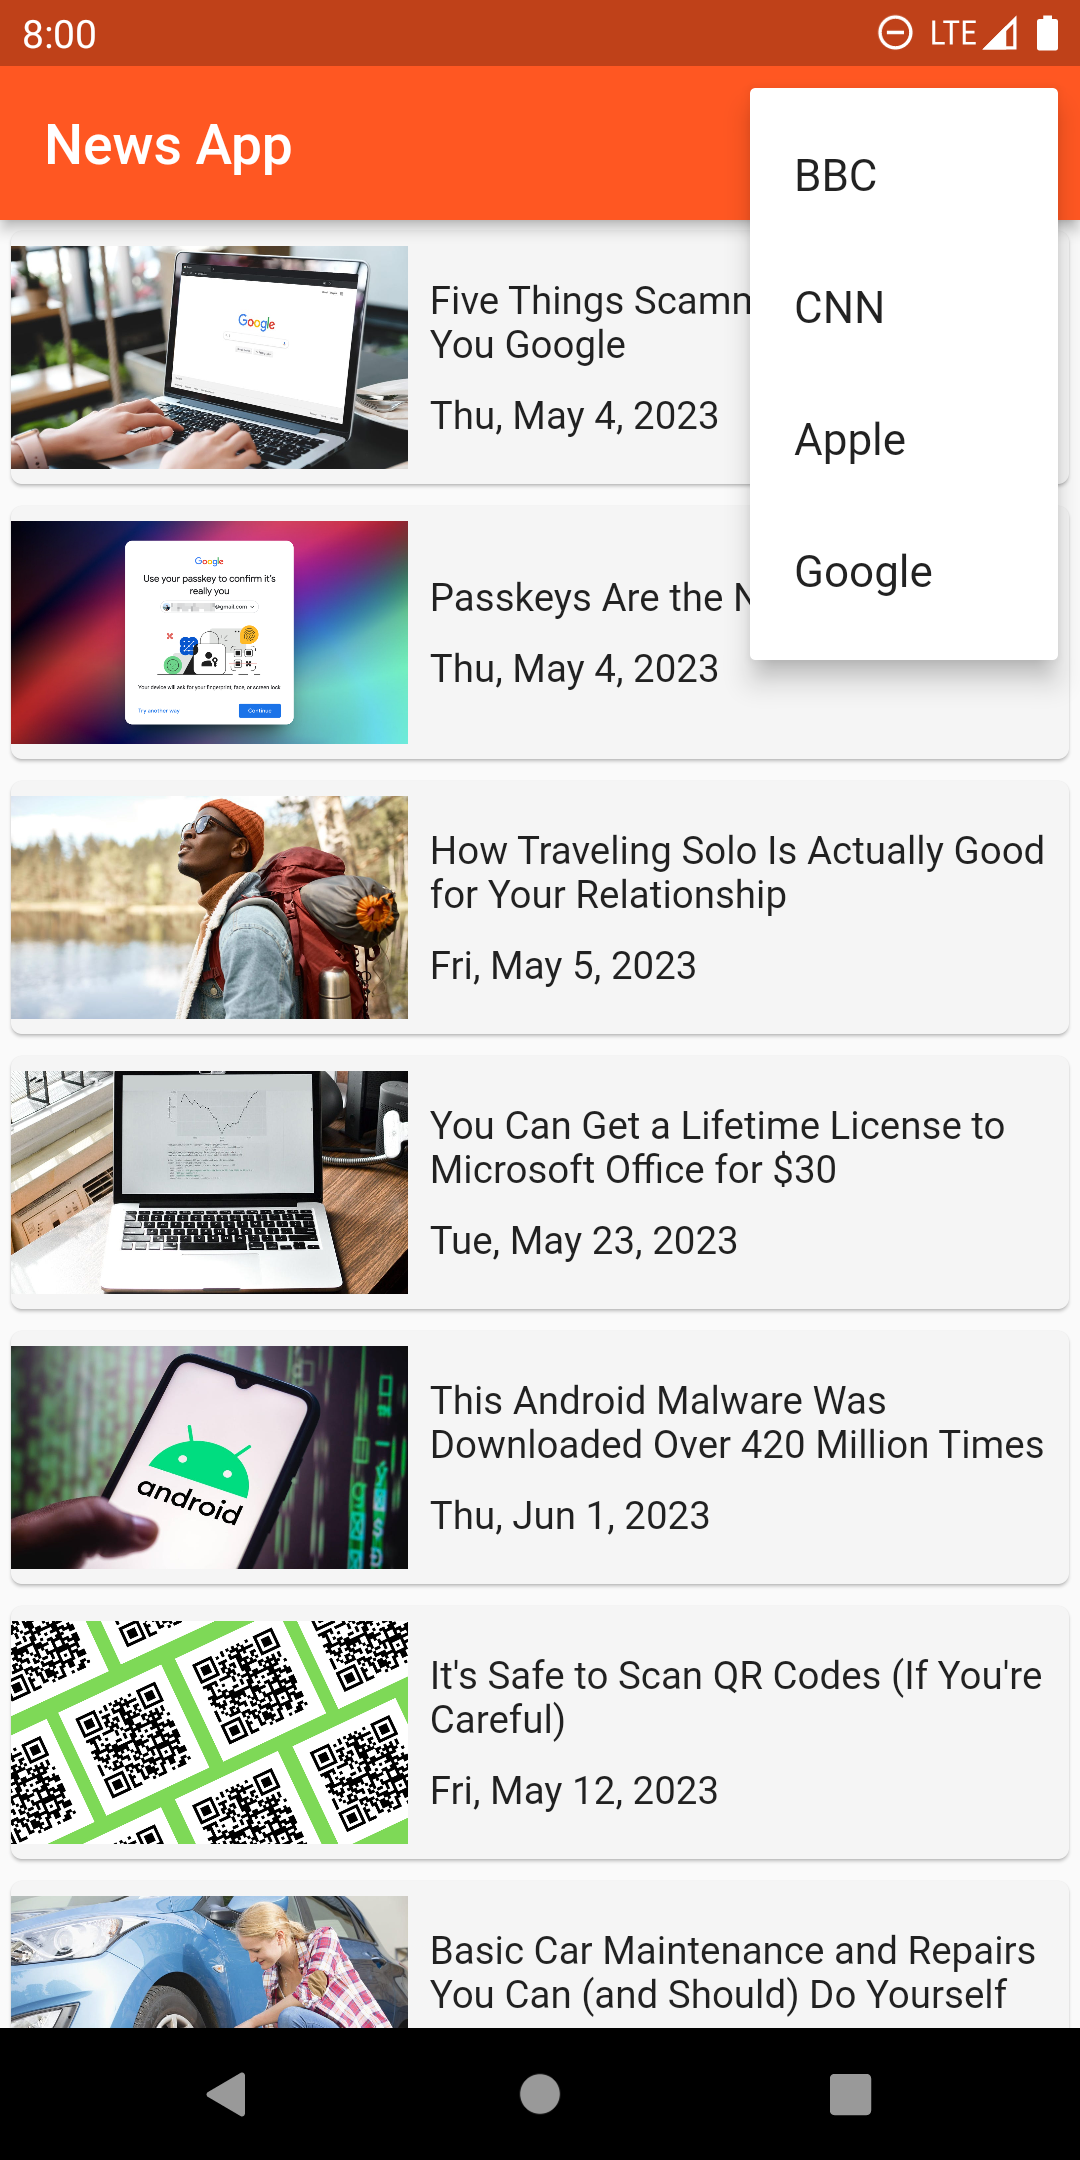
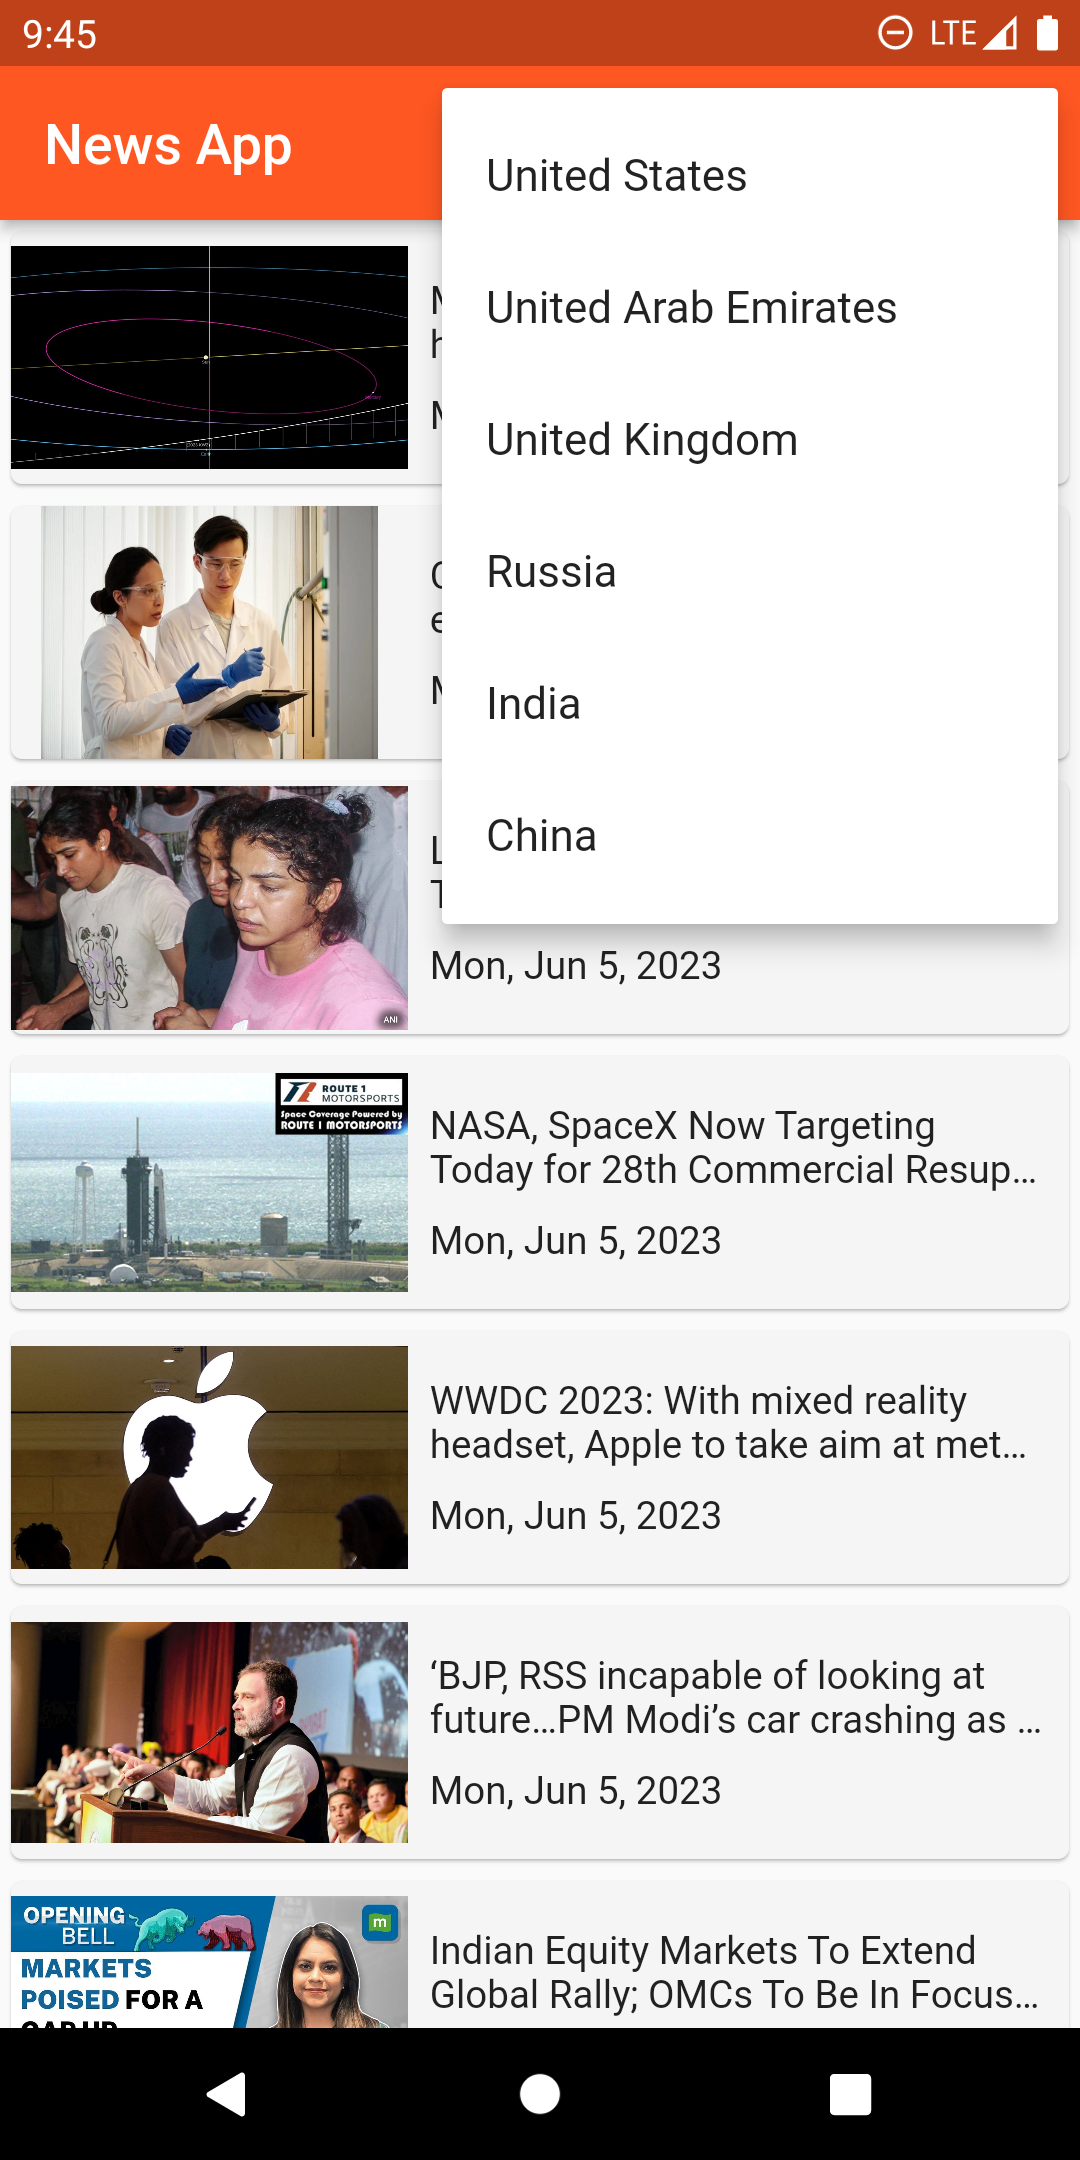
fixed

diff --git a/lib/pages/home_page.dart b/lib/pages/home_page.dart
@@ -11,17 +11,37 @@ class HomePage extends StatefulWidget {
 }
 
 class _HomePageState extends State<HomePage> {
-  final someNewsKeys = <String>[
-    'BBC',
-    'CNN',
-    'Apple',
-    'Google',
+  final someNewsKeys = <Map<String, dynamic>>[
+    {
+      "value": "us",
+      "title": "United States",
+    },
+    {
+      "value": "ae",
+      "title": "United Arab Emirates",
+    },
+    {
+      "value": "gb",
+      "title": "United Kingdom",
+    },
+    {
+      "value": "ru",
+      "title": "Russia",
+    },
+    {
+      "value": "in",
+      "title": "India",
+    },
+    {
+      "value": "cn",
+      "title": "China",
+    },
   ];
   NewsModel? news;
 
   Future<void> getData({String? query}) async {
     if (query != null) {
-      news = await FetchData().getAllNews(query: query);
+      news = await FetchData().getAllNews(country: query);
       setState(() {});
     } else {
       news = await FetchData().getAllNews();
@@ -45,9 +65,9 @@ class _HomePageState extends State<HomePage> {
             itemBuilder: (context) => someNewsKeys
                 .map(
                   (item) => PopupMenuItem(
-                    onTap: () => getData(query: item),
+                    onTap: () => getData(query: item['value']),
                     value: item,
-                    child: Text(item),
+                    child: Text(item['title']),
                   ),
                 )
                 .toList(),

diff --git a/lib/services/fetch_data.dart b/lib/services/fetch_data.dart
@@ -8,10 +8,10 @@ class FetchData {
     contentType: 'application/json',
   ));
 
-  Future<NewsModel?> getAllNews({String query = 'us'}) async {
+  Future<NewsModel?> getAllNews({String country = 'us'}) async {
     String apiKey = '93ddf10e190949448ca35614f33760d1';
     String apiLink =
-        'https://newsapi.org/v2/everything?q=$query&sortBy=popularity&apiKey=$apiKey';
+        'https://newsapi.org/v2/top-headlines?country=$country&sortBy=popularity&apiKey=$apiKey';
 
     Response res = await dio.get(apiLink);
 
